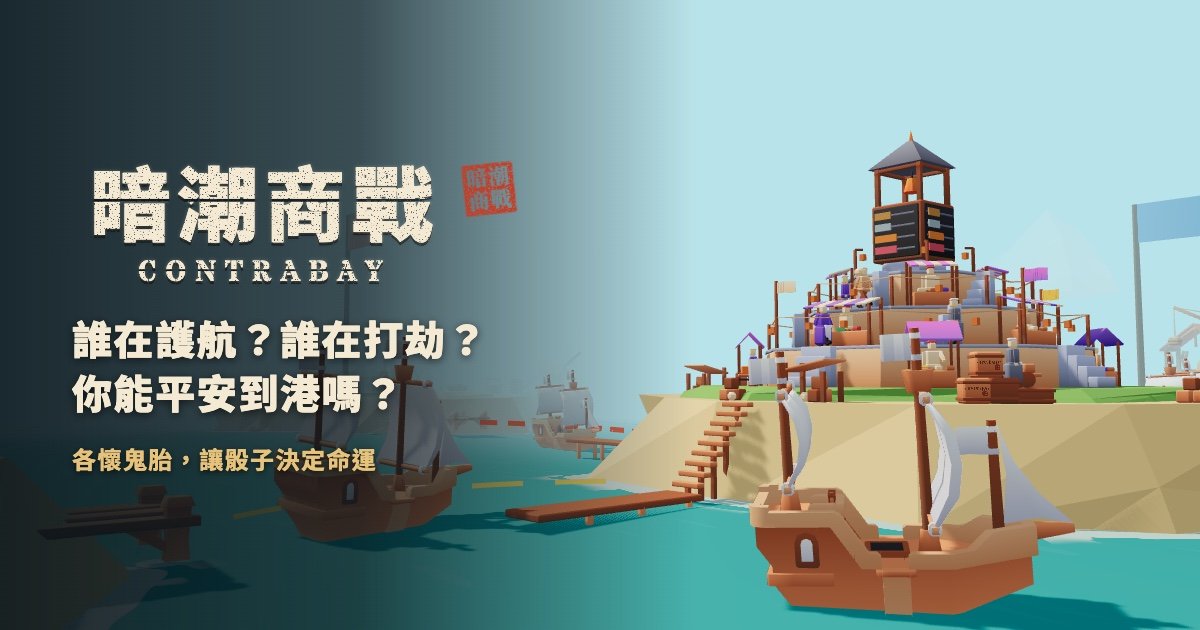
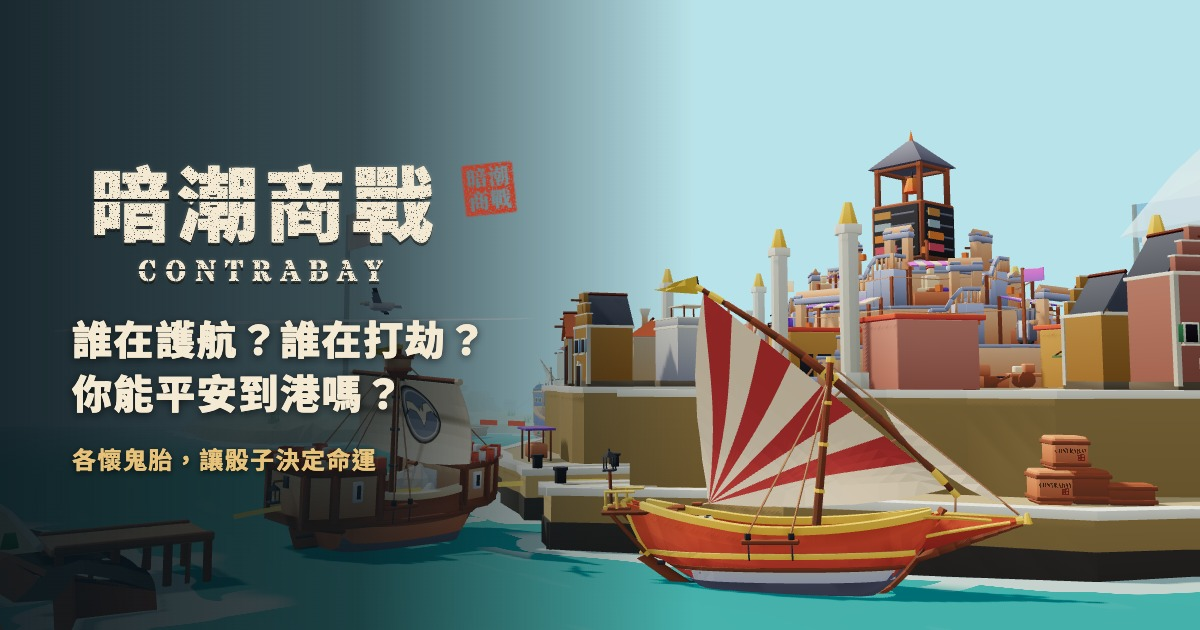
feat: put the game's own ship models on the share card and shoot the role hand
The share card now sails the five-ship fleet instead of the old Kenney hull,
the promo script adds the role-hand shots, and the survey note says the form
is updated.

diff --git a/src/ui-v07/dev/OgCardPreview.tsx b/src/ui-v07/dev/OgCardPreview.tsx
@@ -1,18 +1,18 @@
 import { useFrame, useThree } from '@react-three/fiber';
 import { useMemo, useRef } from 'react';
 import type { Group } from 'three';
-import type { PlayerId, VoyageEventId } from '../../v07/game';
+import type { PlayerId, ShipTypeId, VoyageEventId } from '../../v07/game';
 import { GOODS } from '../../v07/game';
 import { seatAngles } from '../../ui/scene/layout';
-import { Model } from '../../ui/scene/Model';
 import { lanePose } from '../../ui/scene/Ships';
-import { seaSurfaceY } from '../../ui/scene/seaWave';
+import { SEA_LEVEL, seaSurfaceY } from '../../ui/scene/seaWave';
 import { useSwell, useWavePhase } from '../../ui/scene/SwellContext';
 import { PLAYER_COLORS } from '../../ui/scene/tableModel';
 import type { MarketShow } from '../../ui/scene/MarketIsland';
 import { GOOD_COLORS } from '../scene/CrateModel';
 import type { BeatSeat } from '../scene/beatStage';
 import { TableCanvas } from '../scene/TableCanvas';
+import { ShipModel } from '../scene/ships/ShipModel';
 import { MENU_BERTH, menuPrices } from '../menu/menuMotion';
 import { IslandFlag } from '../menu/MenuProps';
 import { CinnabarChop, GameTitle } from '../skin/titleMark';
@@ -33,11 +33,13 @@ const SEATS: readonly BeatSeat[] = [
   { id: 'og-4' as PlayerId, name: '', color: PLAYER_COLORS[3], buildings: [], island: 'lighthouse', isViewer: false },
 ];
 const ALL_LIT: ReadonlySet<PlayerId> = new Set(SEATS.map((s) => s.id));
-/**
- * How deep the hulls sit below the water. The table's ships ride SEA_LEVEL above the surface,
- * which reads right from the table's high cameras; this low camera would see them float.
- */
-const DRAFT = Number(new URLSearchParams(window.location.search).get('draft') ?? 0.2);
+/** How deep the keels sit below the water's rest level: the table's own draft (scene/Ships `DRAFT`), so these hulls ride like the game's. */
+const DRAFT = Number(new URLSearchParams(window.location.search).get('draft') ?? 0.5);
+/** The five ship types are the game's own models; the lane ships and the hero are picked to show the range. */
+const LANE_TYPES: readonly ShipTypeId[] = ['standard', 'freighter', 'breaker', 'hidden'];
+const HERO_TYPE: ShipTypeId = 'gambler';
+/** A tailwind's sail fill (ShipModel `gale`). */
+const GALE = 0.6;
 /** The hulls' lean in the wind and the hero's bow lifted by a wave (radians). */
 const HEEL = Number(new URLSearchParams(window.location.search).get('heel') ?? 0.08);
 const PITCH = Number(new URLSearchParams(window.location.search).get('pitch') ?? -0.05);
@@ -52,7 +54,7 @@ interface Shot {
   readonly weather: VoyageEventId | null;
 }
 /** A tailwind: higher swell with foam and wind streaks, the right sea for full canvas. */
-const SAIL: Shot = { cam: [22, 4, 34], look: [-24, 8, -2], t: [0.45, 0.5, 0.55, 0.66], hero: [11.6, 18.2, 2.2], weather: 'tailwind' };
+const SAIL: Shot = { cam: [22, 4, 34], look: [-24, 8, -2], t: [0.45, 0.5, 0.55, 0.66], hero: [8.6, 18.2, 2.2], weather: 'tailwind' };
 const SHOTS: Readonly<Record<'sail' | 'night', Shot>> = { sail: SAIL, night: { ...SAIL, weather: 'moonless-night' } };
 
 const vec = (raw: string | null): Vec | null => {
@@ -70,14 +72,14 @@ function Camera({ cam, look }: { readonly cam: Vec; readonly look: Vec }) {
 }
 
 /** A ship held at a spot of the sea, riding the swell. */
-function HeroShip({ x, z, yaw }: { readonly x: number; readonly z: number; readonly yaw: number }) {
+function HeroShip({ x, z, yaw, color }: { readonly x: number; readonly z: number; readonly yaw: number; readonly color: string }) {
   const group = useRef<Group>(null);
   const swell = useSwell();
   const phase = useWavePhase();
   useFrame(() => {
     const g = group.current;
     if (!g) return;
-    g.position.set(x, seaSurfaceY(x, z, phase.current, swell.current.height) - DRAFT, z);
+    g.position.set(x, seaSurfaceY(x, z, phase.current, swell.current.height) - SEA_LEVEL - DRAFT, z);
     // Heeled by the wind and lifted at the bow by a wave: it reads as sailing, not parked.
     g.rotation.order = 'YXZ';
     g.rotation.y = yaw;
@@ -86,13 +88,13 @@ function HeroShip({ x, z, yaw }: { readonly x: number; readonly z: number; reado
   });
   return (
     <group ref={group}>
-      <Model name="ship-medium" scale={0.546} />
+      <ShipModel type={HERO_TYPE} color={color} night={false} underway gale={GALE} />
     </group>
   );
 }
 
 /** A ship held at one spot of its lane, riding the swell like the menu's ships. */
-function FrozenShip({ angle, t }: { readonly angle: number; readonly t: number }) {
+function FrozenShip({ angle, t, type, color, night }: { readonly angle: number; readonly t: number; readonly type: ShipTypeId; readonly color: string; readonly night: boolean }) {
   const group = useRef<Group>(null);
   const swell = useSwell();
   const phase = useWavePhase();
@@ -100,14 +102,14 @@ function FrozenShip({ angle, t }: { readonly angle: number; readonly t: number }
     const g = group.current;
     if (!g) return;
     const pose = lanePose(angle, t * MENU_BERTH);
-    g.position.set(pose.position.x, seaSurfaceY(pose.position.x, pose.position.z, phase.current, swell.current.height) - DRAFT, pose.position.z);
+    g.position.set(pose.position.x, seaSurfaceY(pose.position.x, pose.position.z, phase.current, swell.current.height) - SEA_LEVEL - DRAFT, pose.position.z);
     g.rotation.order = 'YXZ';
     g.rotation.y = pose.heading;
     g.rotation.z = HEEL * 0.7;
   });
   return (
     <group ref={group}>
-      <Model name="ship-medium" scale={0.546} />
+      <ShipModel type={type} color={color} night={night} underway gale={GALE} />
     </group>
   );
 }
@@ -155,10 +157,10 @@ export function OgCardPreview() {
           market={market}
           {...(night ? { litSeats: ALL_LIT } : {})}
         >
-          <HeroShip x={hero[0]} z={hero[1]} yaw={hero[2]} />
+          <HeroShip x={hero[0]} z={hero[1]} yaw={hero[2]} color={SEATS[0]!.color} />
           {angles.map((angle, i) => (
             <group key={i}>
-              <FrozenShip angle={angle} t={t[i] ?? 0.4} />
+              <FrozenShip angle={angle} t={t[i] ?? 0.4} type={LANE_TYPES[i] ?? 'standard'} color={SEATS[i]!.color} night={night} />
               <IslandFlag angle={angle} color={SEATS[i]!.color} raised still />
             </group>
           ))}

diff --git a/src/ui-v07/dev/trailer/TrailerOpening.tsx b/src/ui-v07/dev/trailer/TrailerOpening.tsx
@@ -3,12 +3,12 @@ import { useMemo, useRef } from 'react';
 import { Vector3, type Group } from 'three';
 import type { PlayerId } from '../../../v07/game';
 import { laneCurve, seatAngles } from '../../../ui/scene/layout';
-import { Model } from '../../../ui/scene/Model';
 import { lanePose } from '../../../ui/scene/Ships';
 import { SEA_LEVEL, seaSurfaceY } from '../../../ui/scene/seaWave';
 import { useSwell, useWavePhase } from '../../../ui/scene/SwellContext';
 import { PLAYER_COLORS } from '../../../ui/scene/tableModel';
 import type { BeatSeat } from '../../scene/beatStage';
+import { ShipModel } from '../../scene/ships/ShipModel';
 import { TableCanvas } from '../../scene/TableCanvas';
 import { MENU_BERTH } from '../../menu/menuMotion';
 import { markReady } from './director';
@@ -43,7 +43,8 @@ const END_START = 0.35;
 let startAt = START;
 const progress = (s: number): number => Math.min(MENU_BERTH, startAt + (s / VOYAGE) * MENU_BERTH);
 
-function SailingShip({ angle, index }: { readonly angle: number; readonly index: number }) {
+/** Every ship in the opening and the end shot is the standard 信天翁號, in its owner's colour. */
+function SailingShip({ angle, index, storm }: { readonly angle: number; readonly index: number; readonly storm: boolean }) {
   const group = useRef<Group>(null);
   const swell = useSwell();
   const phase = useWavePhase();
@@ -61,7 +62,7 @@ function SailingShip({ angle, index }: { readonly angle: number; readonly index:
   });
   return (
     <group ref={group}>
-      <Model name="ship-medium" scale={0.546} />
+      <ShipModel type="standard" color={SEATS[index]?.color ?? PLAYER_COLORS[0]} night={false} underway gale={storm ? 1 : 0} murk={storm} />
     </group>
   );
 }
@@ -132,7 +133,7 @@ export function TrailerOpening({ ending = false, tall = false }: { readonly endi
     >
       {ending ? <EndCamera tall={tall} /> : <DirectorCamera angle={angles[0] ?? 0} tall={tall} />}
       {angles.map((angle, i) => (
-        <SailingShip key={i} angle={angle} index={i} />
+        <SailingShip key={i} angle={angle} index={i} storm={!ending} />
       ))}
     </TableCanvas>
   );

diff --git a/scripts/promo/v071-shots.ts b/scripts/promo/v071-shots.ts
@@ -66,13 +66,13 @@ await viewport(540, 960, 2);
 await open('/v07.html?dev=trailer&part=cover&format=tall', 7000);
 await save('cover-tall-1080x1920');
 await viewport(1200, 630, 1);
-await open('/v07.html?dev=og-card', 9000);
+await open('/v07.html?dev=og-card', 16000);
 await save('og-card');
 await viewport(1920, 1080, 1);
 
 // A real match (you against three bots, seed 3) played up to the voyage, for the screenshots that
 // show the ship choice: the islands revealed, the ship hand, a ship's dice table, loading cargo, and
-// frames of the voyage (the role hand is left out: its customs and diplomat art is still the old one).
+// frames of the voyage. The role hand is in too now that customs and diplomat have their own art.
 const waitFor = async (expression: string, timeout = 40_000): Promise<void> => {
   const started = Date.now();
   while (!(await evaluate<boolean>(expression))) {
@@ -90,6 +90,7 @@ const press = (expression: string) => evaluate(`${expression}?.click()`);
 
 await open('/v07.html?dev=round3d&seed=3', 2000);
 await waitFor(`document.querySelectorAll('.isle-slot').length === 2`);
+await sleep(1500);
 await press(`document.querySelectorAll('.isle-slot')[1]`);
 await sleep(800);
 await waitFor(`!!${byText('選定', true)}`);
@@ -120,7 +121,12 @@ await sleep(1500);
 await save('game-cargo');
 await press(`document.querySelector('.seal-submit')`);
 await waitFor(`!!document.querySelector('.dep-card.none')`);
-await sleep(2500);
+await sleep(3000);
+await save('game-roles');
+// Customs: the card picked, then a rival's ship, for the goods it can name.
+await press(`document.querySelectorAll('.dep-card')[0]`);
+await sleep(1500);
+await save('game-roles-customs');
 await press(`document.querySelector('.dep-card.none')`);
 await sleep(800);
 await press(`document.querySelector('.seal-submit')`);

diff --git a/src/ui-v07/dev/trailer/TrailerGame.tsx b/src/ui-v07/dev/trailer/TrailerGame.tsx
@@ -11,9 +11,11 @@ import { mark, markReady } from './director';
 // capture films it and notes the moments the edit cuts to.
 
 const STEPS: readonly ClickStep[] = [
-  // Round 1: load wood and spice, seal it.
-  { selector: '[data-crate="wood"]', wait: 900, mark: 'invest-wood' },
-  { selector: '[data-crate="spice"]', wait: 250, mark: 'invest-spice' },
+  // Round 1: pick 信天翁號, go on to the cargo, load wood and spice, seal it.
+  { selector: '[data-ship-card="standard"]', wait: 900, mark: 'ship-pick' },
+  { selector: '[data-focus="ship-next"]', wait: 500, mark: 'ship-next' },
+  { selector: '[data-cargo-card="wood"]', wait: 600, mark: 'invest-wood' },
+  { selector: '[data-cargo-card="spice"]', wait: 250, mark: 'invest-spice' },
   { selector: '[data-focus="submit"]', wait: 350, mark: 'invest-seal', last: true },
   // Round 2: your guard on your own ship, sealed.
   { selector: '[data-role-card="guard"]', wait: 900, mark: 'deploy-guard' },

diff --git a/src/ui-v07/README.md b/src/ui-v07/README.md
@@ -23,7 +23,7 @@
 | `table3d/` | 3D 桌面上的各個決定（試驗）：每一步是一個 hook（`useInvestStep`、`useDeployStep`），回傳要加在同一張桌面上的標籤、3D 道具、底部列、彈出層與鏡頭位置（`stage.ts`），桌面本身只掛載一次。`MarketStrip`（黑市列）、`ShipBets`（海關或外交官點了船之後，在該船原本「＋」的位置往上列出清單：海關指名四種貨之一，外交官猜四種角色之一）、`IslandDraft`／`IslandReveal`（滿版選島與島嶼公開）、`revealModel`／`RoleArrows`（角色揭露的箭頭）、`seatPlates`（商會名牌）、`IslandBadge`（島名牌，滑過或點擊看能力；中央巴扎港的名牌 `MarketBadge` 浮在疊市頂端上方；在島的後緣，左右兩側的島改放島緣外的海面上，避開立在後面的背景地標與島上建築）、`RankRail`／`standings`（右上角長駐的玩家排行：總財富（現金＋建築半價）、已蓋的建築圖示與倉庫存貨，回合結束才重排並滑動換位，窄視窗預設收合）、`RoleBadges`（掛在目標身上的角色圖示章）、`DeployChips`（部署底欄的「角色 ▸ 目標」兩個晶片）、`ResolveBar`（結算時底欄的進度點、揭露圓章、只有圖示的跳過鈕、航海事件前的「通緝」公告牌）、`scene/WantedFlag`（被通緝者島上插的紅旗，低面數、落地展開飄動，只在事件揭曉前的通緝階段出現 3 秒）、`IslandGlance`（島嶼效果的加減圖示列）、`IslandCard`／`cardCraft`（選島與島嶼公開用的 RPG 風島嶼卡：自繪向量插圖、燙金島名、紙紋撕邊、發牌翻面、跟著滑鼠傾斜；`/v07.html?dev=island-cards` 單獨檢視）、`IslandIcon`（從卡面插圖抽出的島嶼地標小徽章，用在島名牌、排行與島嶼公開）、`cardArt`（建築、角色、航海事件卡的插圖與抽出圖示的網址；插圖放在卡的插圖窗，圖示用在各處小徽章）、`RulesPanel`／`rulesBook.css`（頂部書本鈕或主選單「規則書」開的航海手冊：皮革封面、雙頁書頁，書籤就是角色、島嶼、建築、貨品、事件、計分、連線七個章節頁籤（連線章是 `docs/game-design.md` 第 15 節的摘要，句子由 `online/clockText.ts` 的 `onlineRules` 依協定常數產生），翻到的那章書籤最突出；換章節時真的翻一頁（`RulesPageTurn`：雙頁時右頁從書脊翻到左邊、往回翻反過來，翻起的紙正面是舊頁、背面是新頁，落點那頁蓋住前保留舊章節；手機單頁往左翻走；減少動態效果時直接換頁）；手機改單頁、書籤移到上緣；和島嶼卡一樣不受 `?skin=classic` 影響；貨品的句子在 `table/goodText.ts`，數字由規則產生）、`InfoTip`（桌上圖示的說明：商品圖示、角色徽章、揭露底欄、排行的建築與島、通緝與思考中／已決定記號，滑過或點擊都會出現，浮在最上層，上方放不下就往下開）、`SealSubmit`（投資與部署的提交鈕是紅色封蠟章；提交後章留在底欄轉個角度寫「已封」、選擇變淡，等其他人決定時都看得到，下一個決定或結算開始就換掉；`Table3DScreen` 保存被封住的選擇，步驟的 `sealedChips` 提供它）、`LockHint`（提交鈕旁的 ⓘ，點或滑過看說明）、`icons.tsx`（畫出來的箭頭、鎖、時鐘、圓盤等小圖示）、`GoodIcon`（商品圖示：深色圓盤加商品色圈；除了價格板——黑市列與市場結算卡是文字加圖示——所有顯示商品的地方都用它，`withGoodIcons` 把句子裡的商品名換成圖示）、`scene/CrateModel`（桌上的木箱：木板、角柱、鐵箍，箱蓋上是商品圖示，倉庫與船上的貨都用它）、`useHudSafe`（依畫面上實際的 HUD 高度算鏡頭安全區，至少留視窗高度 30% 給場景，並把上方 HUD 底緣寫進 CSS 變數 `--hud-top`）、`hudPhone.css`（直立手機的 HUD 版面：頂部一列放事件、回合、排行與按鈕，黑市 2×2 價籤，說明列兩行、手牌六張一排）；`islandMoments`／`useIslandMoments`（改變生產或費用的島的時刻：每回合開場時，產量和一般島不同的島彈跳並浮出「+1 木材」「沒產鐵礦」「保住 N 香料」；出航時，自由港與燈塔島標出出航成本與可裝貨量；只演和一般島不同的地方，演出時下一個決定會等它播完）；部署之後的整段由 `useRoundResolution` 接手：揭露 → 航程（每艘船一拍，用 `scene/BeatScene` 的 `beatLayer`）→ 市場（`MarketCard`）→ 結帳（`settlementModel` 把每筆錢或貨變成「起點 → 終點」，`Flights` 在桌上飛）→ 帳單；整局結束後是 `ResultCard`（資料在 `resultModel.ts`）。 船艙規則（`rules.ships`，V0.7.1 預設，取代建築；舊建築規則是 `RULES_BUILDINGS`）下 `useInvestStep` 多一個選船階段：先看 `ShipPicker.tsx` 的 `ShipHand`（沿用角色手牌的 `dep-hand`／`dep-card`：每艘船自己的卡面插圖 `public/art/cards/ship-<type>.svg`〔卡牌插圖的扁平向量畫風，依 Blender 船模造型手繪；橫版看得到整艘船，手機圖窗太窄只顯示船頭〕、船名、船費、沉船機率、冷卻；「不出航」也是一張牌）和船的特寫，指到或選中的船由 `ShipInfo` 說明骰值表（依最終值列出船本身的曲線，海嘯號到 9+；船的原始數據不含事件、島嶼與角色的修正，這回合第一次點選一艘船時另外演一次那些修正的影響：標籤從事件晶片飛進骰值卡、多出「擲出」欄、沉船機率從原始值數到含修正值，指到不算，見 `ShipPicker.tsx`、`shipChoice.ts` 的 `shipEffect`）與能力：橫版是船右邊的一張卡、排行同時收合，手機是船卡上方折成一行的說明條（點一下展開），按「裝貨」後，底部換成貨箱卡牌（`CargoHand.tsx`、資料在 `table/cargoCards.ts`：每種貨一張卡，沿用角色手牌的 `dep-hand`／`dep-card`，只放貨名、倉庫剩餘數量、已裝在船上的金色數字〔點一下卸下一箱〕，以及只在有事要說時才出現的角落小圖示：香料沒裝會壞的警告、不是下回合就生產的時鐘），點卡片就裝一箱，箱子從甲板上方掉進船裡；鏡頭仍是船的特寫，島上的 3D 倉庫在船艙規則下不出現（手機也一樣，卡片一排四張）；提交照舊，船旁的「換船」回到選船；船艙模式沒有建築（引擎不列蓋建築的動作，`useInvestStep` 不放建築鈕與「不蓋」晶片，也就沒有「還沒選建築」的提醒）；手機的選貨維持島的原鏡頭；投資時你的碼頭會停一艘船（`StageParts.ownShip`）。進選船的轉場的 2D 那一半是 `ShipArrival.tsx`：鏡頭降到海面時一道碎浪蓋過畫面（`WaveWipe.tsx` 用一張 canvas 逐格畫，形狀與時間在 `waveWipeMath.ts`：深、中、浪頭三層錯開 45 ms 湧上，各自的浪緣不規則且邊走邊變形，浪頭有奶油色泡沫與墨線、從浪尖濺起的水花，退去時留下蕾絲狀的泡沫；順便蓋住俯衝最後一段），接著標題與發牌；時間都是 `DIVE_MS` 的比例，跟鏡頭一起走，每次投資播一次（`useShipArrival`）。標題與發牌是共用的 `StepArrival.tsx`／`stepArrival.css`（`ArrivalTitle`「第 N 回合・選擇出航的船／選擇部署的角色」、`dealStyle` 讓手牌一張張發上來、說明條與底欄跟著進場）：選角（`useDeployStep`）等鏡頭從船旁拉回桌面後才播（`useStepArrival`，教學的建築規則不播）。鏡頭在兩種鏡頭之間飛行時根元素有 `camera-flying`，名牌、島名、船上的按鈕、排行、手牌與底欄都先藏起來，落定後淡入。 |
 | 畫面文字原則 | 一個畫面只留一個大字重點；字級只用 `v07.css` 的三個 token（`--fs-note`／`--fs-body`／`--fs-title`）；按鈕只寫動詞（「提交」「繼續」），狀態放在旁邊的圖示晶片；箭頭、鎖、加減號不用文字字元，用 `table3d/icons.tsx`；操作教學只顯示一次（`table/reminderSettings.ts` 的 `isHintSeen`／`markHintSeen`）；規則整句放 hover 或點擊，不可只靠 hover（手機點擊也要看得到）；商品一律用圖示（價格板除外），規則句與 title 提示仍保留商品名。島嶼效果的圖示摘要 `table/islandGlance.ts` 是依 `ISLAND_TEXT` 手動維護的，改島嶼規則時兩邊一起改（`tests/ui-v07/islandGlance.test.ts` 只檢查對應是否齊全）。 |
 | `skin/` | `layers.css`：試用中的外觀：卡牌桌遊風（深色木框裝羊皮紙、金色細線；常駐列是斜面木條、決定是卡牌、秘密是深漆封蠟；能單靠 CSS 放的裝飾如端蓋、面板外框、羅盤都在這裡以 data URI 畫出）；`menu.css`：主選單各頁、教學選單與教學提示卡的同一套外觀（面板外框、標題牌、切角按鍵、羊皮紙條；大廳座位與調整座位是帶商會色緞帶的名牌，顏色由元件以 `--seat` 傳入），由 `App.tsx` 在 `menu/menu.css` 之後載入；`ornaments.tsx`：需要 DOM 的裝飾（手冊的黃銅護角、`SealSubmit` 的封蠟章圖）；`titleMark.tsx`：遊戲名稱「暗潮商戰／Contrabay」的型板噴漆字樣（`GameTitle`，`lang` 可選中文或英文為主，遊戲目前只用中文）與朱印（`CinnabarChop`，主選單、島嶼卡背），字型由 `index.html` 只載入用到的字。網頁圖示 `public/favicon.png` 由 `scripts/draw-favicon.py` 畫出。說明見 [`docs/ui/v07-style-layers.md`](../../docs/ui/v07-style-layers.md)；網址加 `?skin=classic` 切回舊外觀比較。 |
-| `dev/` | 只在開發模式：`/v07.html?dev=beat` 滿版卡版本、`/v07.html?dev=beat3d` 3D 桌面的結算拍、`/v07.html?dev=round3d`（或 `invest3d`，直接開一局你對三個 Bot，和正式畫面同一個 `Table3DScreen`）在 3D 桌面上連續玩整局：選島 → 投資 → 部署 → 角色揭露 → 航程 → 市場 → 結帳 → 帳單 → 下一回合，最後是結果畫面；加 `&autoplay` 會自動代打並跳過演出，直接看結局。`/v07.html?dev=og-card` 是分享連結的預覽封面（1200×630，`public/og-card.jpg` 由它截出；`shot=night` 夜景、`cam`／`look`／`hero`／`draft`／`heel`／`copy` 可試別的鏡頭與文案，用法在檔頭；船在這頁吃水較深，因為桌面的船是照俯視鏡頭調的，低角度會看起來浮在水上）。`/v07.html?dev=market` 近看巴扎港（`&view=back|top|far|crates`〔`crates` 是沙灘上的走私貨箱堆〕、`&spin=1`、`&weather=moonless-night|storm`、`&awnings=shut`、``），每艘船都停在碼頭、每 20 秒派一次挑夫。`/v07.html?dev=skin-lab`（`SkinLabPreview`、`skinLab.css`、`skinLabArt.tsx`、`SkinLabTitle`〔已套用的遊戲名稱與英文版〕）把底欄、面板、主按鈕的現有外觀和試驗中的質感做法並排比較（已套用到遊戲的列只顯示遊戲本身的樣子；切角按鍵、底欄的斜面凹槽與黃銅端蓋、吊牌晶片、面板的 9-slice 外框與標題牌已在 `skin/layers.css` 套用；`SkinLabPanels` 用 Bot 自動跑一局，放出真正的市場卡、帳單與結果畫面）：斜面木條加凹槽與黃銅端蓋、吊牌晶片、切角按鍵、黃銅護角與紙上的羅盤浮水印；已套用的航海手冊（真正的 `RulesPanel`）與封蠟章提交鈕（`SealSubmit` 的可提交、已封、還不能提交）。遊戲本身還沒有用到。`/v07.html?dev=trailer`（`dev/trailer/`）是宣傳片的拍攝頁：`part=open` 暴風雨開場（`openingShots.ts` 的鏡頭）、`part=game` 照 `TRAILER` 劇本（`src/v07/tutorial/trailer.ts`）跑的實機局，你的兩個決定由畫面上的游標自動點、`part=strike&angle=low|close|wide` 沒有任何標籤的雷擊（蒙太奇用，`BeatScene` 的 `camera`／`bare`）、`part=end` 結尾的晴天、`part=card` 字幕與結尾卡（`TrailerCard`，QR Code 指向 `?src=video`）；這些頁的時鐘由 `scripts/trailer/` 逐格推進，成片用 `scripts/trailer/make.ts` 一次拍好、剪好、配好音（分鏡在 `scripts/trailer/plan.ts`；`--format tall` 是給 IG 限動與 Threads 的直版，各頁加 `&format=tall` 改用手機版介面與直式構圖）。開發模式下 `await window.bmgCapture()` 可擷取原始解析度的 3D 畫面。 `/v07.html?dev=invest3d` 預設就是船艙規則（可試玩選船），加 `&buildings=1` 改用舊建築規則（`RULES_BUILDINGS`）；`/v07.html?dev=ship-select`（`&step=cargo`）是兩段鏡頭的草稿頁（假資料，不接遊戲）。 |
+| `dev/` | 只在開發模式：`/v07.html?dev=beat` 滿版卡版本、`/v07.html?dev=beat3d` 3D 桌面的結算拍、`/v07.html?dev=round3d`（或 `invest3d`，直接開一局你對三個 Bot，和正式畫面同一個 `Table3DScreen`）在 3D 桌面上連續玩整局：選島 → 投資 → 部署 → 角色揭露 → 航程 → 市場 → 結帳 → 帳單 → 下一回合，最後是結果畫面；加 `&autoplay` 會自動代打並跳過演出，直接看結局。`/v07.html?dev=og-card` 是分享連結的預覽封面（1200×630，`public/og-card.jpg` 由它截出；`shot=night` 夜景、`cam`／`look`／`hero`／`draft`／`heel`／`copy` 可試別的鏡頭與文案，用法在檔頭；船是遊戲自己的五種船模（`ShipModel`；前景孤注號、航道上是信天翁號、巨鯨號、海嘯號與幽靈號），吃水與桌面相同）。`/v07.html?dev=market` 近看巴扎港（`&view=back|top|far|crates`〔`crates` 是沙灘上的走私貨箱堆〕、`&spin=1`、`&weather=moonless-night|storm`、`&awnings=shut`、``），每艘船都停在碼頭、每 20 秒派一次挑夫。`/v07.html?dev=skin-lab`（`SkinLabPreview`、`skinLab.css`、`skinLabArt.tsx`、`SkinLabTitle`〔已套用的遊戲名稱與英文版〕）把底欄、面板、主按鈕的現有外觀和試驗中的質感做法並排比較（已套用到遊戲的列只顯示遊戲本身的樣子；切角按鍵、底欄的斜面凹槽與黃銅端蓋、吊牌晶片、面板的 9-slice 外框與標題牌已在 `skin/layers.css` 套用；`SkinLabPanels` 用 Bot 自動跑一局，放出真正的市場卡、帳單與結果畫面）：斜面木條加凹槽與黃銅端蓋、吊牌晶片、切角按鍵、黃銅護角與紙上的羅盤浮水印；已套用的航海手冊（真正的 `RulesPanel`）與封蠟章提交鈕（`SealSubmit` 的可提交、已封、還不能提交）。遊戲本身還沒有用到。`/v07.html?dev=trailer`（`dev/trailer/`）是宣傳片的拍攝頁：`part=open` 暴風雨開場（`openingShots.ts` 的鏡頭）、`part=game` 照 `TRAILER` 劇本（`src/v07/tutorial/trailer.ts`）跑的實機局，你的兩個決定由畫面上的游標自動點、`part=strike&angle=low|close|wide` 沒有任何標籤的雷擊（蒙太奇用，`BeatScene` 的 `camera`／`bare`）、`part=end` 結尾的晴天、`part=card` 字幕與結尾卡（`TrailerCard`，QR Code 指向 `?src=video`）；這些頁的時鐘由 `scripts/trailer/` 逐格推進，成片用 `scripts/trailer/make.ts` 一次拍好、剪好、配好音（分鏡在 `scripts/trailer/plan.ts`；`--format tall` 是給 IG 限動與 Threads 的直版，各頁加 `&format=tall` 改用手機版介面與直式構圖）。開發模式下 `await window.bmgCapture()` 可擷取原始解析度的 3D 畫面。 `/v07.html?dev=invest3d` 預設就是船艙規則（可試玩選船），加 `&buildings=1` 改用舊建築規則（`RULES_BUILDINGS`）；`/v07.html?dev=ship-select`（`&step=cargo`）是兩段鏡頭的草稿頁（假資料，不接遊戲）。 |
 | `online/` | 連線房間，協定版本 7（3 加了「再來一局」，4 加了限時與託管，5 加了大廳同步限時與公開各座位倒數，6 是船艙規則，7 加了觀眾席：大廳的 `Stand`，`MatchView`／`Table3DScreen` 的 `spectator` 讓結算自動進行）；開發時 `/api` 由 Vite 轉到 `npm run server:dev`（8787）。`OnlineScreen`：輸入房號或點邀請連結加入；任何人都能按「建立房間」（`turnstile.ts` 先做 Cloudflare Turnstile 機器人驗證，多數人看不到；正式金鑰還沒申請前 `SITE_KEY` 是空的，就不驗證）；房主在大廳可以「移出」別人（被移出的人不能再入座這間房）與「鎖房」；大廳是大字房號、複製邀請連結、座位卡（`lobbySeats.ts`，空位寫「開始時由電腦補上」）。入座過的房號存在本機（`onlineClient.ts` 的 `lastRoom`），主選單顯示「回到房間」；對局中按離開會保留，大廳按離開或對局結束後離開才清掉。對局結束時房主按「再來一局」，整個房間回到同一個大廳（已經離線的人讓出座位，回來可以再入座；旁觀的人也會收到）；其他人看到「等房主開下一局」。在大廳按「離開房間」會讓出座位（協定的 `leave`），對局開始後座位保留。限時與託管（`docs/game-design.md` 第 15 節）：房主在大廳選每個決定的限時（1／2／5 分鐘，預設 2 分鐘；協定的 `limit` 訊息存在房間的大廳狀態，所有人的 `sync` 都帶 `decisionSeconds`，非房主看到「每個決定限時 N 分鐘」，開局沿用）；對局中 `MatchClock` 疊在桌面上（不經過桌面本身）：底欄上方的倒數（剩 30 秒變色閃爍，最後 10 秒每秒「答」一聲、最後 3 秒更急，`sfx-ui-tick.ogg`）、逾時提示（`clockText.ts` 的 `TIMEOUT_DEFAULT` 說明替你做了什麼，並警告再逾時一次就託管）、自己被託管時的頂部橫幅與「取消託管」、其他人的「託管中」名單、還在決定的其他座位的剩餘時間（`mc-waits`：名字加倒數，計時還沒開始顯示「等待中」，暫停顯示「暫停」；伺服器的公開訊息 `clocks`，`sync` 的 `match.clocks` 也帶，客戶端同樣換算成本機時間，存在 `seatDeadlines`）。結算演出裡要按的兩處（「開始航程」、帳單）線上會在 20 秒後自動繼續，按鈕與帳單提示顯示剩餘秒數（`table3d/useAutoAdvance.ts`，由 `OnlineScreen` 傳 `autoAdvanceSeconds`，單機與教學不受影響）。倒數從桌面真的顯示決定時才開始：`Table3DScreen` 呼叫 session 的 `decisionShown`，客戶端送 `shown` 給伺服器（重新連上時再送一次），伺服器最晚在送出後 90 秒開始計時；倒數用伺服器給的剩餘毫秒換算成本機時間（`onlineClient.ts` 的 `deadlines`，`request`、`clock`、`sync` 都會更新），伺服器替你處理掉的決定在 `waiting` 時從請求清單移除。 |
 | `audio/` | 音樂與音效（2026-10-24）：`soundPlan.ts`（純函式：選單頁循環播封面曲；對局畫面疊海浪環境音，遊戲內音樂是「間歇」播放——放一輪就只留海浪 75 秒再放，回合結算與結果畫面時不放；檔名與各層音量）、`soundEngine.ts`（Web Audio 播放：循環用 AudioBuffer 讓接縫無縫，換曲時舊曲先淡出、停一下再淡入新曲，兩種速度不重疊；`holdMusic` 由 `Table3DScreen` 在結算時呼叫，下一回合開場音樂從頭響起；玩家第一次點擊或按鍵前不出聲，分頁隱藏時暫停，回來時補上隱藏期間該換的曲目（新回合、事件背景、間歇休息結束）；頁面上永遠只有一個引擎，開發時熱更新會先關掉舊的）、`useSoundtrack`（`App.tsx` 依選單背景桌面是否存在切換曲目）、`SoundToggle`（主選單角落與對局右上角的聲音開關，存本機 `soundSettings.ts`）。航海事件公開後，事件的背景（`soundPlan.ts` 的 `eventBedFor`：暴風雨是音效，順風是水手齊聲吆喝的船歌，海霧、月黑風高、黑市熱絡是配樂，風平浪靜維持海浪）取代海浪直到帳單結束（`Table3DScreen` 呼叫 `setEventBed`）；航程拍的每個時刻有自己的音效（`beatSounds.ts` 純函式：擲骰、護衛、海盜、各事件、燈塔、抵達、沉沒；跳過時只播最新的一個；`useBeatSounds` 在 `useRoundResolution` 裡接上）。結算的每筆金流落地時依原因發聲（`flightSounds.ts` 純函式：賣貨、一般進帳、佣金、走私、被抓、罰款、戰利品、海關沒收、保險、打撈、香料壞掉；由 `table3d/Flights` 播放，只有授權版、沒有 AI 備用）。選島與島嶼公開的發牌、翻面、選定（`IslandDraft`）與投資、部署送出時的封蠟章（`Table3DScreen` 的 `submit`）用 Kenney 的 CC0 卡牌與撞擊音效；角色揭露每翻開一組播該角色的聲音（`revealSounds.ts` 純函式，由 `ResolveBar` 的 `RevealChips` 播，「全部揭露」只播最後一組）；每回合進入投資時先一段鋼鼓短樂句，島嶼技能通知的每個晶片冒出時一聲低沉大泡泡、代價更低（`useIslandMoments`），生產的 +N 冒出時各「啵」一聲、一聲比一聲高，接著貨箱落進倉庫（`useInvestStep`），通緝令插旗有布料聲（`scene/WantedFlag`），規則書翻開、換章節、闔上有書本聲（`RulesPanel`）；情報重擲卡的骰子跳動時搖骰、落定時擲骰（`RerollCard`），建築升起時敲槌、金光時完成音（`Table3DScreen`），一般按鈕都有輕點擊（`useUiSounds.ts` 的 `useUiClicks`，有專屬音效的按鈕除外），「還沒做完」提醒、輪到你部署、線上大廳有人入座或離開也各有提示音（`useSoundOnce`、`useCountSound`）；市場卡每列依價格漲跌播鋼鼓（`marketSounds.ts` 純函式，由 `MarketCard` 播；漲兩格音調更高、不變不出聲），面板出現時一聲沉重的木板；燈塔的「燈塔！」字樣跳出時一聲鈴（`BeatScene` 的 `HitFx`），要塞島的禮炮每發一聲砲響、落下時落水接「叮」、一聲比一聲高（`saluteSounds.ts` 純函式，由 `scene/IslandForces` 的 `Barrage` 播）；起始骰值先在 1～6 間跳 0.52 秒再落下（`ShipBeatStage` 的 `useTumble`），配搖骰接落桌聲。`Table3DScreen` 在回合帳單出現時播收銀機聲；終局結果卡彈出時播一段鋼鼓收尾樂句，`ResultCard` 跟著樂句的重音彈跳，收尾和弦時標題發金光、背後金光與火花炸開（`FLOURISH_MS`）；結果卡公布第一名時（`ResultCard`）吹勝利號角，畫面兩側下角同時噴出彩帶（`CONFETTI`）。部分音效是授權音效庫（Sonniss、Mixkit）的剪輯，放在不進 git 的 `public/audio/licensed/`（授權不允許散布音檔、repo 是公開的），`soundPlan.ts` 的 `LicensedSound` 在沒有該資料夾的 checkout 改播同名的 AI 版本。音檔在 `public/audio/`，提示詞、seed、後製與授權見 `public/audio/SOURCES.md`。 |
 | `analytics/` | 匿名遊玩統計（`docs/online/public-launch-plan.md` 第 4 節）：`track.ts`（事件佇列，每 30 秒或離開頁面時送到 `/api/events`；分析用自己的隨機 id，不是座位 token；「不要記錄」、瀏覽器的 Global Privacy Control、本機開發〔除非網址加 `?analytics`〕都不送）、`useMatchAnalytics.ts`（由 `MatchView` 掛上：開局、每回合結束、終局、中途離開、3D 桌面載入時間；數字由 `matchStats.ts` 從公開事件算出）、`PrivacyNote.tsx`（主選單最底下的「匿名統計」註腳與開關）、`FeedbackBox.tsx`（結算畫面的「這局好玩嗎？」，回答過就不再問；`SURVEY_URL` 有值才顯示外部問卷連結）。教學、規則書、主選單、線上房間的事件在各自的元件裡送出。 |

diff --git a/docs/promo/update-v071.md b/docs/promo/update-v071.md
@@ -23,6 +23,8 @@
 | `game-ship-gambler.jpg` | 指到孤注號：右側的骰值表（5 賺 125%、6 賺 250%）。最能說明「風險自己挑」 |
 | `game-ship-freighter.jpg` | 指到巨鯨號：不會沉、載量 +2 |
 | `game-cargo.jpg` | 裝貨：貨物牌與船上的貨箱、船費與餘額 |
+| `game-roles.jpg` | 部署角色：五張角色手牌，海關與外交官已是新插圖 |
+| `game-roles-customs.jpg` | 點選海關：說明列與可選目標船（「＋」） |
 | `game-fleet-sailing.jpg` | 全桌各島的船出航（新島基與黑市小鎮的全景） |
 | `game-voyage-arrive.jpg` | 孤注號骰到 5「抵達」，帶骰值與修正算式 |
 | `game-voyage-pirate.jpg` | 海嘯號被海盜 −2，帶骰值表 |
@@ -36,9 +38,9 @@
 | `ship-standard.jpg`、`ship-gambler.jpg`、`ship-freighter.jpg`、`ship-hidden.jpg`、`ship-breaker.jpg` | 五艘船的近照，背景是新的島 |
 | `menu-table.jpg`、`devlog-popup.jpg` | 新版大廳與桌面；大廳的開發日誌彈窗 |
 | `cover-wide-1920x1080.jpg`、`cover-itch-1260x1000.jpg`、`cover-tall-1080x1920.jpg` | 商店封面（大廳標題卡疊在新島上）：YouTube 縮圖、itch.io 封面、直式（限動、Shorts 縮圖） |
-| `og-card.jpg` | 分享連結封面的重拍版；**船還是舊模型，尚未取代 `public/og-card.jpg`**，見待辦 |
+| `og-card.jpg` | 分享連結封面（同 `public/og-card.jpg`）：新巴扎港小鎮，前景是孤注號、左邊是信天翁號，都是自製船模 |
 
-**配圖建議：** 巴哈獨立板用 `cover-v071`、`game-ship-pick`、`game-ship-gambler`、`game-voyage-arrive`；巴哈桌遊板用 `game-ship-gambler`、`game-ship-freighter`（機制討論，圖多比海報重要）；IG／FB 限動用 `game-ship-pick` 或 `cover-tall`。
+**配圖建議（有角色卡的 `game-roles*.jpg` 適合桌遊社團與機制討論）：** 巴哈獨立板用 `cover-v071`、`game-ship-pick`、`game-ship-gambler`、`game-voyage-arrive`；巴哈桌遊板用 `game-ship-gambler`、`game-ship-freighter`（機制討論，圖多比海報重要）；IG／FB 限動用 `game-ship-pick` 或 `cover-tall`。
 
 重做：先 `npm run dev`，再執行
 
@@ -179,7 +181,6 @@ Play: https://contrabay.lbdog.uk/?src=itch
 ## 待辦
 
 - ~~規則書改成船艙版~~（2026-11-08 完成）。
-- `public/og-card.jpg`（分享連結封面）：重拍版的巴扎港已是新小鎮，但畫面前景的船仍是舊的 Kenney 模型，要先在 `OgCardPreview` 換成自製的船模再取代。
 - 重拍宣傳片（直式與橫式）：`TRAILER` 劇本與分鏡改成新角色與選船畫面，片中的「情報商人」「莊家」「建築」要全換掉。
-- 角色卡插圖目前海關、外交官仍暫用舊情報商人、莊家的圖；截圖時避開角色卡特寫，或先換圖。
+- **大廳的小船還是舊的 Kenney 模型**（`src/ui-v07/menu/MenuProps.tsx` 的 `MenuShip`）：`menu-table.jpg`、`devlog-popup.jpg` 和三張 `cover-*.jpg` 裡島邊的小船因此是舊樣式；要先把它換成 `ShipModel` 再重拍。
 - 發完看 `/stats` 的「從哪裡來」，以及玩家第一局在選船那一步有沒有離開。

diff --git a/docs/promo/fb-posts.md b/docs/promo/fb-posts.md
@@ -27,7 +27,7 @@
 
 素材在 `promo-out/`（不進版本控制，可依 launch-kit 第 5 節重做）。
 
-**V0.7.1 的新圖在 `promo-out/v071/`**（清單與用途見 [`update-v071.md`](update-v071.md)）：遊戲畫面 `game-*.jpg`（選船、骰值表、裝貨、出航、抵達）、`cover-*.jpg`、`ship-*.jpg`、`menu-table.jpg`，全都是新島基。**宣傳片 `trailer-v6.mp4` 拍的是 V0.7（有建築、情報商人與莊家），尚未重拍**；重拍前建議改放封面圖或多張船的圖，影片只在說明裡註明是舊版畫面。留言可補的截圖改成新圖：獨立遊戲社團放 `game-voyage-arrive.jpg`、`menu-table.jpg`；桌遊社團放 `game-ship-gambler.jpg`、`game-cargo.jpg`；AI 社團放 `ship-hidden.jpg`、`ship-breaker.jpg`。
+**V0.7.1 的新圖在 `promo-out/v071/`**（清單與用途見 [`update-v071.md`](update-v071.md)）：遊戲畫面 `game-*.jpg`（選船、骰值表、裝貨、角色手牌、出航、抵達）、`cover-*.jpg`、`ship-*.jpg`、`menu-table.jpg`，全都是新島基。**宣傳片 `trailer-v6.mp4` 拍的是 V0.7（有建築、情報商人與莊家），尚未重拍**；重拍前建議改放封面圖或多張船的圖，影片只在說明裡註明是舊版畫面。留言可補的截圖改成新圖：獨立遊戲社團放 `game-voyage-arrive.jpg`、`menu-table.jpg`；桌遊社團放 `game-ship-gambler.jpg`、`game-cargo.jpg`；AI 社團放 `ship-hidden.jpg`、`ship-breaker.jpg`。
 
 ## 1. 獨立遊戲開發社團
 

diff --git a/docs/promo/survey.md b/docs/promo/survey.md
@@ -9,7 +9,7 @@
 - 只問「去哪裡改」的問題：哪裡卡住、哪個角色有感、想先改什麼。
 - 問題與選項只使用已定案的名稱（5 種角色：V0.7.1 是護衛、海盜、走私商人、海關、外交官），不假設任何未定案規則。
 
-> **2026-11-08：** 文件已改成 V0.7.1 的角色與選項，但**已發布的 Google 表單還是舊選項（情報商人、莊家、建築與材料），要手動到表單編輯**，否則 V0.7.1 玩家會看到不存在的角色。
+> **2026-11-08：** 已發布的 Google 表單已同步改成 V0.7.1 的選項（第 6 題「選船與裝貨」、第 7 題「海關」「外交官」），公開頁已確認。改選項前的舊回覆若選了「情報商人」「莊家」，在結果裡會歸到「其他」。
 
 **表單標題：** 暗潮商戰 Contrabay｜試玩回饋（1 分鐘）
 
